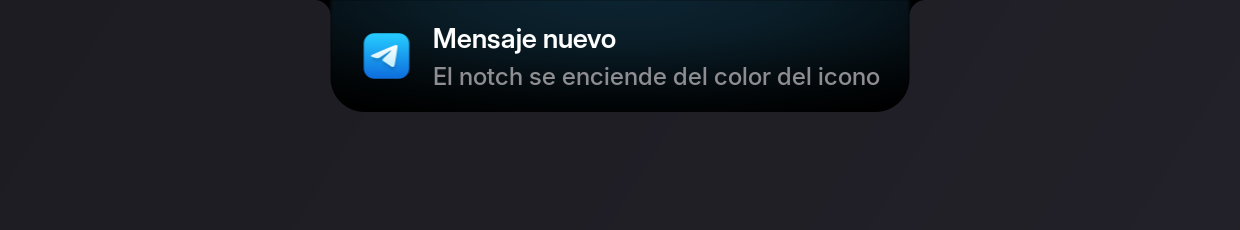
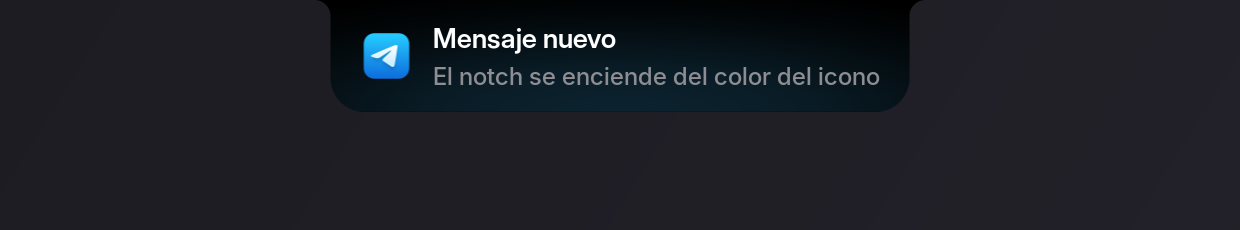
La luz sale ahora del canto de abajo
Arriba el notch esta pegado al borde de la pantalla, asi que la luz
moria contra un canto recto y la mitad de la elipse se perdia fuera.
Abajo monta sobre las dos esquinas redondeadas --la unica forma libre
que tiene el notch- y se lee como luz del propio cuerpo en vez de como
un degradado puesto encima.

La textura es la misma: se pinta con el alto en negativo, que la
voltea. GLOW_IN_ABAJO la devuelve arriba.

Claude-Session: https://claude.ai/code/session_01XVYWSP19DR3ycNTVCStvp5

Changed region(s): [[0.2452, 0.0, 0.7355, 0.1522], [0.2758, 0.3652, 0.7355, 0.487]]

diff --git a/theme.py b/theme.py
@@ -563,7 +563,7 @@ ACCION_SUB = {
 }
 
 # El resplandor de DENTRO: medio radial estirado pegado al canto de
-# arriba del notch. Es el que se ve siempre, porque esta sobre el
+# abajo del notch. Es el que se ve siempre, porque esta sobre el
 # cuerpo negro y no depende del fondo de escritorio que tengas.
 #
 # El tamano va en fracciones de la isla, no en pixeles: asi la elipse
@@ -574,9 +574,13 @@ GLOW_IN_RX = 0.90     # radio horizontal, en anchos de isla
 GLOW_IN_RY = 1.10     # radio vertical, en altos de isla
 # Tope del alto de la luz, este en pixeles. Un panel alto --el lanzador
 # son 500 px- tiene la misma forma que una tarjeta, asi que sin tope la
-# elipse se estiraria hasta abajo y teñiria el panel entero en vez de
-# entrar por arriba.
+# elipse se estiraria de canto a canto y teñiria el panel entero en vez
+# de entrar por uno de ellos.
 GLOW_IN_MAXH = 180
+# De que canto sale la luz. Abajo: arriba el notch esta pegado al borde
+# de la pantalla y la luz muere contra un canto recto, mientras que
+# abajo monta sobre las dos esquinas redondeadas. A False vuelve arriba.
+GLOW_IN_ABAJO = True
 
 # El halo de FUERA (el que se derrama sobre el escritorio). Apagado por
 # defecto: es otro efecto distinto, y los dos a la vez se pisan.

diff --git a/render.py b/render.py
@@ -822,11 +822,18 @@ def resplandor_dentro(cr, x, y, w, h, color, alpha, crece=0.0):
     alto = min(h, T.GLOW_IN_MAXH) * (1.0 + crece)
     ancho = w * (1.0 + crece)
     cr.save()
-    # Lo que crece lo hace desde el centro de arriba, que es donde esta
+    # Lo que crece lo hace desde el centro del canto, que es donde esta
     # el foco de la elipse: creciendo desde la esquina, el latido se
     # leeria como un desplazamiento lateral.
-    cr.translate(x - w * crece / 2.0, y)
-    cr.scale(ancho / float(tw), alto / float(th))
+    #
+    # Y el canto es el de ABAJO: la textura se pinta con el alto en
+    # negativo, que la voltea. Arriba el notch esta pegado al borde de
+    # la pantalla y la luz muere contra un canto recto; abajo monta
+    # sobre las dos esquinas redondas, que es la unica forma libre que
+    # tiene, y se lee como luz del propio cuerpo.
+    cr.translate(x - w * crece / 2.0, y + h if T.GLOW_IN_ABAJO else y)
+    cr.scale(ancho / float(tw),
+             (-alto if T.GLOW_IN_ABAJO else alto) / float(th))
     cr.set_source_surface(tex, 0, 0)
     cr.get_source().set_filter(cairo.FILTER_BILINEAR)
     cr.paint_with_alpha(alpha)

diff --git a/README.md b/README.md
@@ -100,7 +100,11 @@ te escriben.
 </table>
 
 **Y se enciende del color de quien avisa.** Un medio radial estirado, pegado
-al canto de arriba y por dentro del propio cuerpo. Dentro y no fuera a
+al canto de **abajo** y por dentro del propio cuerpo. Abajo y no arriba
+porque arriba el notch está pegado al borde de la pantalla y la luz muere
+contra un canto recto; abajo monta sobre las dos esquinas redondeadas, que es
+la única forma libre que tiene, y se lee como luz del propio cuerpo. Dentro y
+no fuera a
 propósito: así se ve siempre igual, sin depender de qué fondo de escritorio
 tengas detrás. Va debajo del contenido, así que el texto se lee exactamente
 igual que antes.
@@ -135,16 +139,16 @@ enchufarlo y las cuentas atrás al cumplirse. Los demás paneles no: un panel no
 se anuncia, lo has pedido.
 
 <p align="center">
-  <img src="docs/resplandor-lanzador.png" alt="El lanzador con Firefox seleccionado y un resplandor naranja, del color de su icono, entrando por el canto de arriba" width="520">
+  <img src="docs/resplandor-lanzador.png" alt="El lanzador con Firefox seleccionado y un resplandor naranja, del color de su icono, saliendo del canto de abajo" width="520">
 </p>
 
 **El lanzador es la excepción**, y es donde más se nota: toma el color del
 resultado que tienes **señalado** y cambia al moverte por la lista, así que el
 notch se tiñe del programa que vas a abrir antes de abrirlo. Es la misma regla
 de siempre —el color de lo que estás viendo—, solo que aquí lo que estás
-viendo cambia con las flechas. En un panel alto la luz no se estira hasta
-abajo: tiene tope en píxeles, para que siga siendo una luz que entra por
-arriba y no un tinte.
+viendo cambia con las flechas. En un panel alto la luz no se estira de canto
+a canto: tiene tope en píxeles, para que siga siendo una luz que entra por uno
+de ellos y no un tinte.
 
 Entre dos avisos seguidos —o entre dos resultados— el color **viaja** en vez
 de saltar, y se enciende y se apaga con muelle: un halo que aparece de golpe
